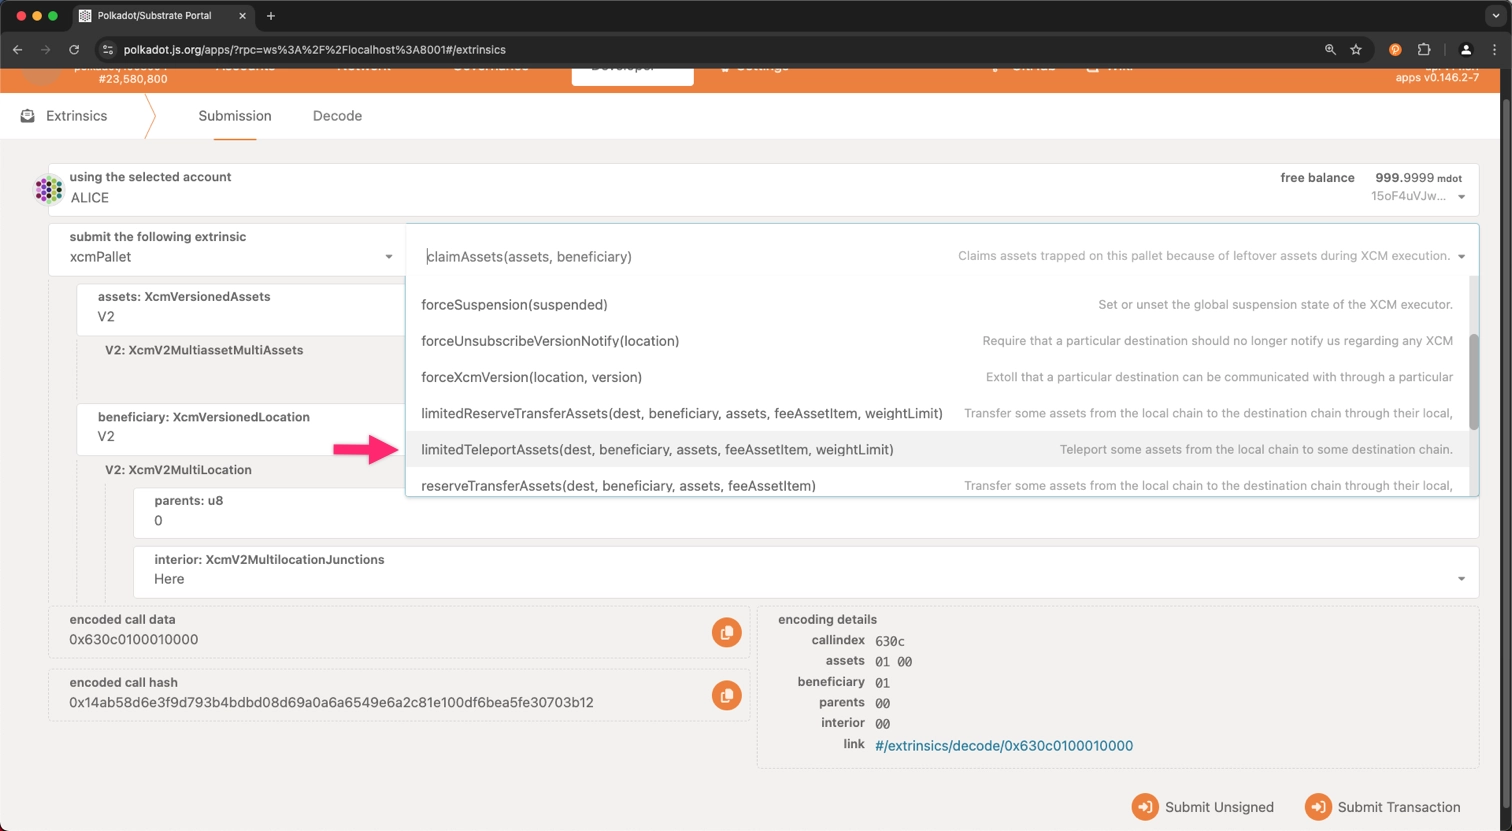
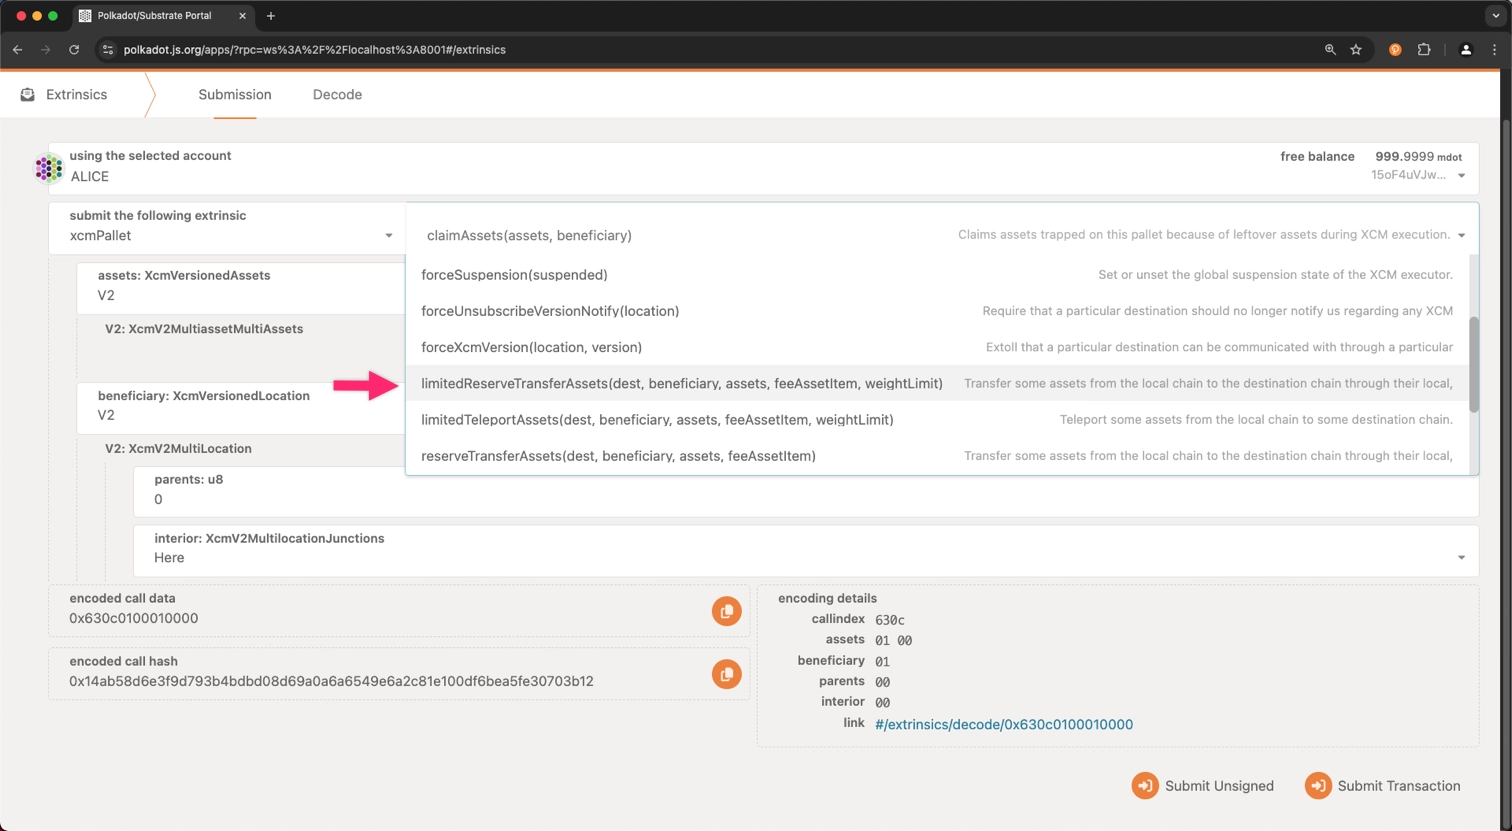
fix: adding last sections

diff --git a/tutorials/interoperability/xcm-transfers.md b/tutorials/interoperability/xcm-transfers.md
@@ -1,6 +1,6 @@
 ---
 title: XCM Transfers
-description: TODO
+description: Learn how to perform a reserve-backed asset transfer between a relay chain and a parachain using XCM for cross-chain interoperability.
 ---
 
 # XCM Transfers
@@ -9,26 +9,25 @@ description: TODO
 
 [Cross-Consensus Messaging (XCM)](/develop/interoperability/intro-to-xcm/){target=\_blank} facilitates asset transfers both within the same consensus system and between different ones, such as between a relay chain and its parachains. For cross-system transfers, two main methods are available:
 
-- **Asset teleport** - simple and efficient method involving only the source and destination chains, ideal for systems with a high level of trust
-- **Reserve-Backed transfers** - involves a trusted reserve that holds the real assets and mints derivative tokens to track ownership. This method is suited for systems with lower trust levels
+- **Asset teleportation** - a simple and efficient method involving only the source and destination chains, ideal for systems with a high level of trust
+- **Reserve-Backed transfers** - involves a trusted reserve holding real assets and mints derivative tokens to track ownership. This method is suited for systems with lower trust levels
 
-This tutorial will cover both types of transfer between a relay chain and a parachain.
+In this tutorial, you will learn how to perform a reserve-backed transfer between a relay chain (Polkadot) and a parachain (Astar).
 
 ## Prerequisites
 
-To send messages between different consensus systems you need to open HRMP channels, so ensure that you have checked the [XCM Channels](/develop/interoperability/xcm-channels/#xcm-channels){target=\_blank} article before for further information about.
+To send messages between different consensus systems, you must first open HRMP channels. For detailed guidance, refer to the [XCM Channels](/develop/interoperability/xcm-channels/#xcm-channels){target=\_blank} article before for further information about.
 
-This tutorial uses Chopsticks to fork a relay chain and a parachain that are connected to each other throguh HRMP channels, for further details about how this works, check the [XCM Testing](/tutorials/polkadot-sdk/testing/fork-live-chains/#xcm-testing){target=\_blank} section in the Chopsticks page.
+This tutorial uses Chopsticks to fork a relay chain and a parachain connected via HRMP channels. For more details on this setup, see the [XCM Testing](/tutorials/polkadot-sdk/testing/fork-live-chains/#xcm-testing){target=\_blank} section on the Chopsticks page.
 
 ## Setup
 
-To simulate the XCMs operations betwween different consensus systems, you can run the following command:
+To simulate XCM operations between different consensus systems, start by forking the network with the following command:
 
 ```bash
 chopsticks xcm -r polkadot -p astar
 ```
-
-After running that command, those chains will expose the following endpoints:
+After executing this command, the relay chain and parachain will expose the following WebSocket endpoints:
 
 === "Polkadot (relay chain)"
 
@@ -42,17 +41,24 @@ After running that command, those chains will expose the following endpoints:
     ws://localhost:8000
     ```
 
-To access through the [Polkadot.Js Apps](https://polkadot.js.org/apps/){target=\_blank} interface, you can open 2 tabs in the browser and in each of them add to the custom endpoint as follows:
+You can connect these endpoints using the [Polkadot.Js Apps](https://polkadot.js.org/apps/){target=\_blank} interface. Open two browser tabs and add the custom endpoint for each chain as shown below:
 
 ![](/images/tutorials/interoperability/xcm-transfers/xcm-transfers-01.webp)
 
-Click the **Switch** button to switch to the corresponding network.
+Click **Switch** to connect to the respective network.
 
-## Procedure to execute XCM Transfers
+## Procedure to Execute a Reserve-Backed Transfer
 
-To transfer assets from a relay chain to a parachain (in this case polkadot and astar respectively), you need to follow these steps:
+Using their reserve system, this method facilitates asset transfers from a local chain to a destination chain. Fees on the destination chain are deducted from the asset specified in the assets vector at the `fee_asset_item` index, covering up to the specified `weight_limit.` The operation fails if the required weight exceeds this limit, potentially putting the transferred assets at risk.
 
-1. From the relay chain perspective, navigate to the Extrinsics page
+!!! warning
+    The [`reserve_transfer_assets`](https://paritytech.github.io/polkadot-sdk/master/pallet_xcm/pallet/dispatchables/fn.reserve_transfer_assets.html){target=\_blank} extrinsic is deprecated in favor of the [`limited_reserve_transfer_assets`](https://paritytech.github.io/polkadot-sdk/master/pallet_xcm/pallet/dispatchables/fn.limited_reserve_transfer_assets.html){target=\_blank} extrinsic. 
+
+The following steps outline how to execute a reserve-backed transfer from the relay chain Polkadot to the parachain Astar.
+
+### From the Relay Chain Perspective
+
+1. Navigate to the Extrinsics page
     1. Click on the **Developer** tab from the top navigation bar
     2. Select **Extrinsics** from the dropdown
 
@@ -62,35 +68,41 @@ To transfer assets from a relay chain to a parachain (in this case polkadot and 
 
     ![](/images/tutorials/interoperability/xcm-transfers/xcm-transfers-03.webp)
 
-Now, you can proceed to perform either an [asset teleport](#perform-an-asset-teleportation) or a [reserved transfer](#perform-a-reserve-backed-transfer).
-
-### Perform an Asset Teleport
-
-The [`teleport_assets`](https://paritytech.github.io/polkadot-sdk/master/pallet_xcm/pallet/dispatchables/fn.teleport_assets.html){target=\_blank} extrinsic is deprecated in favor of the [`limited_teleport_assets`](https://paritytech.github.io/polkadot-sdk/master/pallet_xcm/pallet/dispatchables/fn.limited_teleport_assets.html){target=\_blank} extrinsic. 
-
-This method transfer assets from a local chain to a destination chain using teleportation. On the destination chain, fees are paid using the asset specified in the assets vector at the index `fee_asset_item`. The payment will cover the weight up to the defined `weight_limit`. If the required weight exceeds this limit, the operation will fail, potentially putting the transferred assets at risk.
-
-To continue, take the following steps:
-
-1. Select the **limitedTeleportAssets** extrinsic from the dropdown list
+3. Select the **limitedReservedAssetTransfer** extrinsic from the dropdown list
 
     ![](/images/tutorials/interoperability/xcm-transfers/xcm-transfers-04.webp)
 
-2. Fill out the required fields
+4. Fill out the required fields
     1. **dest** - specifies the destination context for the assets. Commonly set to `[Parent, Parachain(..)]` for parachain-to-parachain transfers or `[Parachain(..)]` for relay chain-to-parachain transfers. In this case, since the transfer is from a relay chain to a parachain, the destination context is the following:
+
         ```bash
         { parents: 1, interior: { X1: [{ Parachain: 2006 }] } }
         ```
+
     2. **beneficiary** - defines the recipient of the assets within the destination context, typically represented as an `AccountId32` value. This example uses the following account present in the destination chain:
+
         ```bash
         X2mE9hCGX771c3zzV6tPa8U2cDz4U4zkqUdmBrQn83M3cm7
         ```
+
     3. **assets** - lists the assets to be withdrawn, including those designated for fee payment on the destination chain
     4. **feeAssetItem** - indicates the index of the asset within the assets list to be used for paying fees
     5. **weightLimit** - specifies the weight limit, if applicable, for the fee payment on the remote chain
-    6. Click on the **Submit** button to send the transaction
+    6. Click on the **Submit Transaction** button to send the transaction
 
         ![](/images/tutorials/interoperability/xcm-transfers/xcm-transfers-05.webp)
 
+After submitting the transaction, verify that the `xcmPallet.FeesPaid` and `xcmPallet.Sent` events have been emitted:
 
-### Perform a Reserve-Backed Transfer
+![](/images/tutorials/interoperability/xcm-transfers/xcm-transfers-06.webp)
+
+### From the Parachain Perspective
+
+After submitting the transaction from the relay chain, confirm its success by checking the parachain's events. Look for the `assets.Issued` event, which verifies that the assets have been issued to the destination as expected:
+
+
+![](/images/tutorials/interoperability/xcm-transfers/xcm-transfers-07.webp)
+
+## Additional Resources
+
+You can perform these operations using the Asset Transfer API for an alternative approach. Refer to the [Asset Transfer API](/develop/toolkit/interoperability/asset-transfer-api/){target=\_blank} guide in the documentation for more details.
